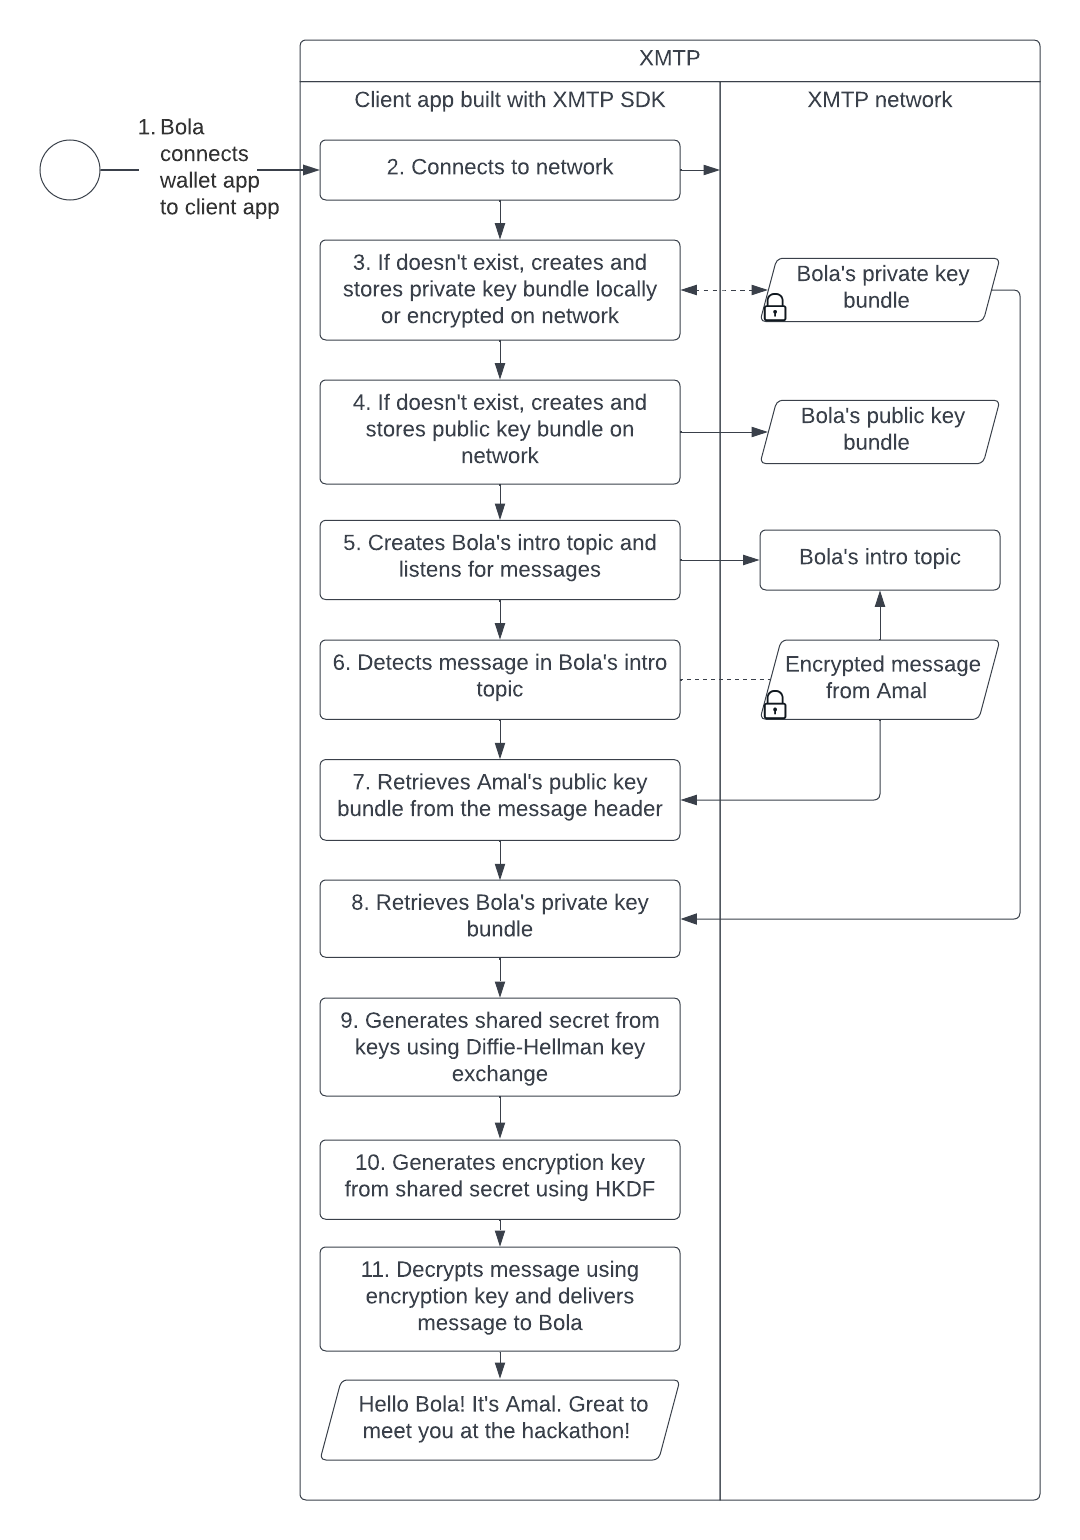
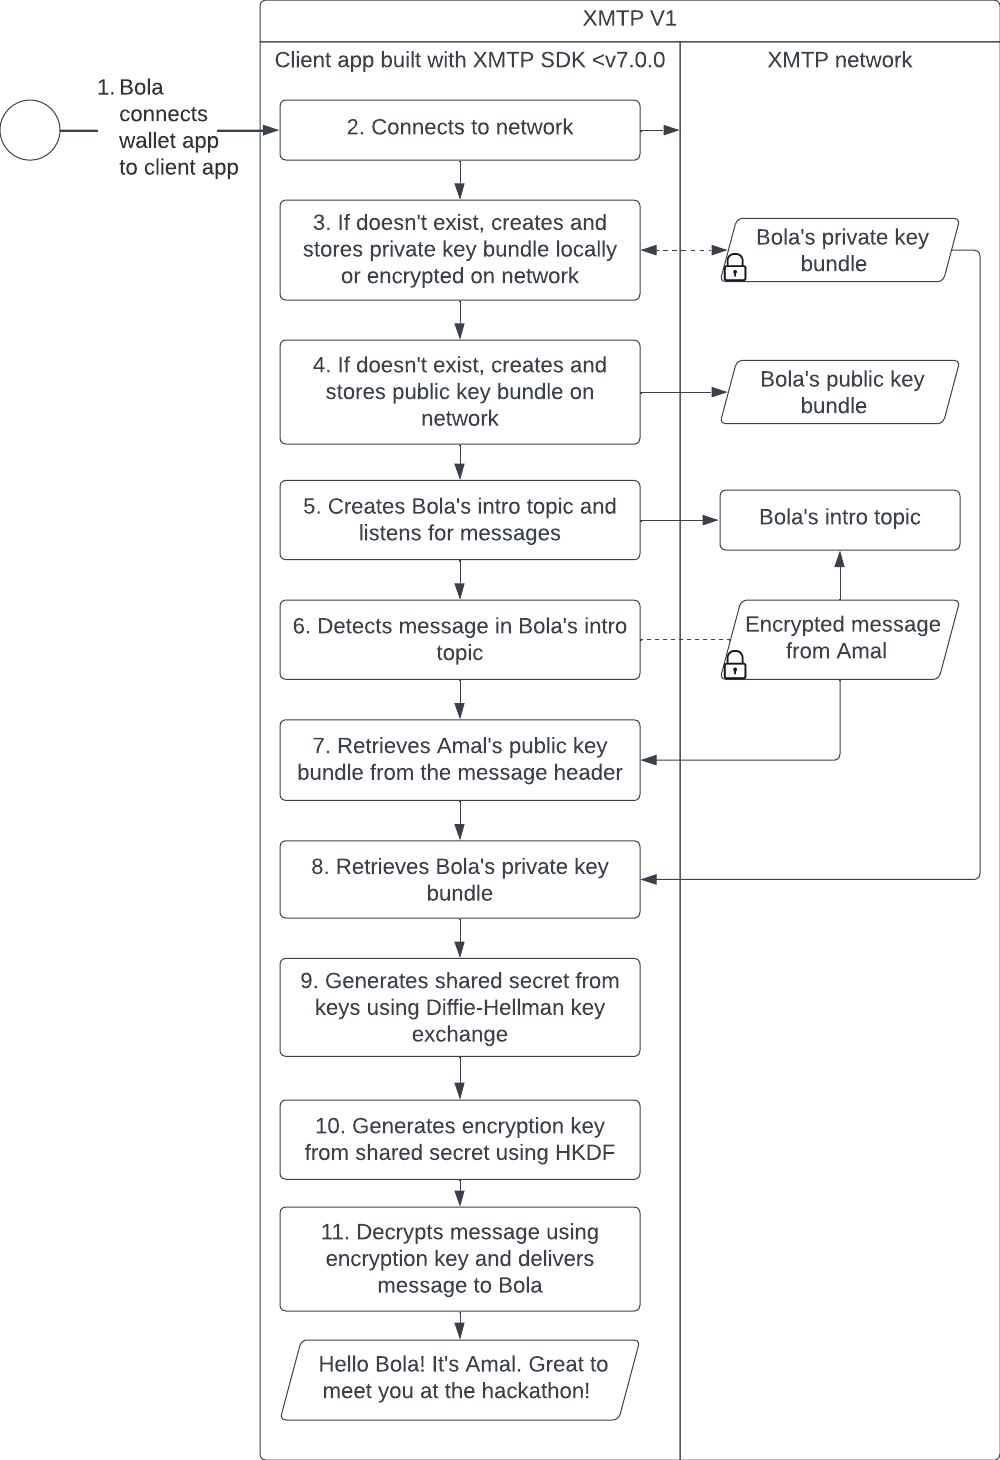
first pass

Changed region(s): [[0.093, 0.0, 1.0, 1.0], [0.031, 0.0925, 0.062, 0.1233]]

diff --git a/docs/dev-concepts/architectural-overview.md b/docs/dev-concepts/architectural-overview.md
@@ -17,6 +17,7 @@ At the most basic level, the architecture of XMTP includes three layers:
 
 ![Diagram showing three layers of the XMTP architecture: network, client, and app.](./img/arch-layers.png) <!--source file: https://www.figma.com/file/1jasKMIn5sAL4855eTwgIm/xmtp-architectural-overview?node-id=407%3A1774-->
 
+
 ## Network layer
 
 The network layer provides the XMTP network which is comprised of nodes (computers) running network client software. The primary responsibilities of the XMTP network and nodes are to:
@@ -27,13 +28,14 @@ The network layer provides the XMTP network which is comprised of nodes (compute
 - Store encrypted private key bundles for XMTP identities
 - Bootstrap newly joined XMTP nodes
 
+
 ### Network topology
 
 Diving a bit deeper into the XMTP network, this diagram illustrates key components of the network topology:
 
 ![Diagram showing five XMTP nodes connected in a peer-to-peer network. Each node contains a bootstrap service and connects to its own data store.](./img/network-topology.png) <!--source file: https://www.figma.com/file/1jasKMIn5sAL4855eTwgIm/xmtp-architectural-overview?node-id=534%3A1663-->
 
-:::note
+:::info
 
 At this time, XMTP Labs runs all nodes in the XMTP network. XMTP Labs aims to publish a phased decentralization roadmap in Fall 2022.
 
@@ -49,32 +51,43 @@ Every XMTP node:
 - Relays messages and key bundles to other nodes
 - Stores and advertises public key bundles for XMTP identities
 - Stores encrypted private key bundles for XMTP identities
-- Stores messages sent by XMTP identities
+- Stores invites and messages sent by XMTP identities
 - Has a private load balancer and connects to a single public load balancer
 
 Here’s a high-level view of how client apps built with XMTP submit and retrieve messages using the XMTP network:
 
 ![Animation showing the flow of a user sending a message to another user, including how the sender's client app encrypts and submits the message to the XMTP network, how an XMTP node relays the message to other nodes, and how the recipient's client app retrieves the message from the network, decrypts it, and delivers it to the recipient.](./img/xmtp-message-flow.gif) <!--source file: https://www.figma.com/file/1jasKMIn5sAL4855eTwgIm/xmtp-architectural-overview?node-id=291%3A2607-->
 
+
 ### Network storage and message relay
 
-The XMTP network uses pub/sub topics to relay and store messages and key bundles within the network. Here's an overview of the topics the network uses:
+The XMTP network uses pub/sub topics to relay and store conversations, messages, invites, and key bundles within the network. This section describes XMTP V1 and V2 topics and flows.
 
+:::info
+
+For a period of time, the XMTP network will support both V1 and V2 topics and flows to give developers time to upgrade their client apps to use XMTP client SDK for JavaScript (xmtp-js) >=v7.0.0, which will provide their apps with V2 functionality. After support for V1 topics and flows is deprecated, client apps that have not upgraded to >=v7.0.0 may be unable to communicate with the XMTP network.
+
+:::
+
+<!--Correct? Is this the min ver needed to use V2. Provide link to release.-->
+
+#### XMTP V1 topics and flow
+
+With XMTP V1, the network uses the following topics:
+
+<!--add more details about specific values in v1 - so we can call out the changes in v2-->
 - Private store topic  
-A developer building an app with XMTP can choose to store their users' private key bundles locally or encrypted on the XMTP network. When required by a client app, the XMTP network uses a private store topic to store a user's private key bundle.  
+  A developer building an app with XMTP can choose to store their users' private key bundles locally or encrypted on the XMTP network. When required by a client app, the XMTP network uses a private store topic to store a user's private key bundle.
 - Contact topic  
-The XMTP network uses a contact topic to store a user’s public key bundle. The network advertises this public key bundle to enable other users to contact the user.  
+  The XMTP network uses a contact topic to store a user’s public key bundle. The network advertises this public key bundle to enable other users to contact the user.
 - Intro topic  
-The XMTP network uses an intro topic to store the first message sent between two participants (blockchain accounts). This enables client apps to know that messages exist in a given direct message topic.
+  The XMTP network uses an intro topic to store the first message sent between two participants (blockchain accounts). This enables client apps to know that messages exist in a given direct message topic.
+- Conversation topic  
+  The XMTP network uses a conversation topic to store all messages sent between two participants. The conversation topic is shared by the two participants.
 
-<!--Per Jazz, currently, the first message in the concept of a conversation is sent to three topics: intro-amal, intro-bola, and dm-amal-bola. The message is copied to the intro topics so that client apps know that messages exist in a given dm topic. This will change in the future such that the intro topic may just include an index, or list, of conversations and no messages.-->
+This diagram illustrates how these XMTP V1 network topics are created and work together to enable a client app to deliver messages to a user:
 
-- Direct message topic  
-The XMTP network uses a direct message topic to store messages sent between two participants. The direct message topic is shared by the two participants.
-
-This diagram illustrates how these XMTP network topics are created and work together to enable a client app to deliver messages to a user:
-
-![Diagram showing a client app interacting with topics in the XMTP network with the goal of delivering messages to a user named Bola.](./img/deliver-a-message.png) <!--source file: https://www.figma.com/file/1jasKMIn5sAL4855eTwgIm/xmtp-architectural-overview?node-id=535%3A1664-->
+![Diagram showing a client app interacting with topics in the XMTP V1 network with the goal of delivering messages to a user named Bola.](./img/deliver-a-message.png) <!--source file: https://www.figma.com/file/1jasKMIn5sAL4855eTwgIm/xmtp-architectural-overview?node-id=535%3A1664-->
 
 In this flow, the client app:
 
@@ -86,7 +99,47 @@ In this flow, the client app:
 
 For more details, see [Message encryption and decryption](#message-encryption-and-decryption).
 
+
+#### XMTP V2 topics and flow
+
+With XMTP V2, the network uses the following topics:
+
+<!--add more details about specific values in v2 - so we can call out the changes from v1-->
+- Private store topic  
+  A developer building an app with XMTP can choose to store their users' private key bundles locally or encrypted on the XMTP network. When required by a client app, the XMTP network uses a private store topic to store a user's private key bundle.  
+- Contact topic  
+  The XMTP network uses a contact topic to store a user’s public key bundle. The network advertises this public key bundle to enable other users to contact the user.
+- Invite topic  
+  XMTP V2 uses an invite topic instead of a V1 intro topic. Instead of storing the first message sent between two participants, the invite topic stores a conversation topic name and key material and no message content. The conversation topic name tells the client app which conversation topic to send messages to. The key material is what the client app uses for message encryption.
+- Conversation topic  
+  The XMTP network uses a conversation topic to store messages sent between two participants. A conversation topic is shared by the two participants. Here are some key differences between conversations topics with XMTP V1 and V2. With XMTP V2:
+  - Two participants can have multiple ongoing conversations. With XMTP V1, all messages between two participants are stored in a single conversation topic.
+  - Conversation topics support `conversationId`s and other metadata. You can use these IDs and metadata to filter and organize conversations, which can be more manageable than filtering individual messages in a single large conversation topic.
+  - The conversation topic name format is `m-DCwPWXQPzoui9RQ eGUD9e9wEz1oOld8E`, for example. The conversation topic name uses a random 32-byte alphanumeric string. With XMTP V1,  the conversation topic name format is `dm-walletaddress1-walletaddress2`, which reveals some identifying information about participants in the conversation.
+
+This diagram illustrates how these XMTP V2 network topics are created and work together to enable a client app to deliver messages to a user:
+
+![Diagram showing a client app interacting with topics in the XMTP V2 network with the goal of delivering messages to a user named Bola.](./img/deliver-a-message-v2.png) <!--source file: https://www.figma.com/file/1jasKMIn5sAL4855eTwgIm/xmtp-architectural-overview?node-id=535%3A1664-->
+
+In this flow, the client app:
+
+<!--do we need to say morea bout invite encryption?-->
+
+1. Retrieves Bola’s private key bundle from the network. If one doesn’t exist, it creates it and stores it encrypted on the network in a private store topic, or locally.
+2. If one doesn't already exist, stores Bola’s public key bundle on the network in a contact topic, so others can message Bola.
+3. Retrieves Bola’s invite topic to get the conversation topic name where the messages are stored, as well as the key material needed for message encryption.
+4. Retrieves the message from the conversation topic.
+5. Uses the shared secret from the key material to create an encryption key to decrypt Amal’s message and present it to Bola.
+
+
+#### How client apps determine whether to use the V1 or V2 message relay flow
+
+Here's a diagram that shows how a client app determines whether to use XMTP V1 or V2 topics and flows.
+
+![Diagram showing a client app interacting with topics in the XMTP V2 network with the goal of delivering messages to a user named Bola.](./img/v1-or-v2-flow.png) <!--source file: https://www.figma.com/file/1jasKMIn5sAL4855eTwgIm/xmtp-architectural-overview?node-id=738%3A2120-->
+
 Next, let’s look at the client layer and how apps connect to the XMTP network and send and receive encrypted messages.
+
 
 ## Client layer
 
@@ -98,26 +151,70 @@ The client layer consists of XMTP user clients embedded in client apps built wit
 - Encode and decode message content types
   To learn more, see [Content types](/docs/dev-concepts/content-types).
 
+
 ### Message encryption and decryption
 
-All XMTP messages are encrypted. A client app encrypts and decrypts messages using the following artifacts:
+All XMTP messages are encrypted. This section describes XMTP V1 and V2 message encryption flows.
+
+
+#### XMTP V1 message encryption
+
+With XMTP V1, a client app encrypts and decrypts messages using the following artifacts:
 
 - Public key bundle (per user)
 - Private key bundle (per user)
 - Shared secret (per sender and recipient pair)
 - Encryption key (per sender and recipient pair)
 
-Here’s a high-level overview of the message encryption and decryption flow:
+Here’s a high-level overview of the message encryption and decryption flow for XMTP V1:
 
 ![Animation showing the flow of a user sending a message to another user, including details of how the sender's client app encrypts and submits the message to the XMTP network, how an XMTP node relays the message to other nodes, and how the recipient's client app retrieves the message from the network, decrypts it, and delivers it to the recipient.](./img/message-encrypt-decrypt.gif) <!--source file: https://www.figma.com/file/1jasKMIn5sAL4855eTwgIm/xmtp-architectural-overview?node-id=324%3A1120-->
 
 The following sequence diagram dives a bit deeper into the flow and illustrates how a client app creates and uses these artifacts to encrypt a message:
 
-![Diagram showing the sequence of steps a client app takes to use a private key, public key, shared secret, and encryption key to encrypt a message before submitting it to the XMTP network.](./img/encrypt-message.png) <!--source file: https://lucid.app/lucidchart/d2985646-969e-4625-82f0-cb38853033c5/edit?viewport_loc=-216%2C-25%2C2184%2C1232%2C0_0&invitationId=inv_2faa4c23-7fdb-40d8-9b78-e9c4557b712d#-->
+![Diagram showing the sequence of steps a client app takes to use a private key, public key, shared secret, and encryption key to encrypt a message before submitting it to the XMTP network.](./img/encrypt-message.png) <!--source file: https://lucid.app/lucidchart/d2985646-969e-4625-82f0-cb38853033c5/edit?view_items=jOX3cckT1jt4&invitationId=inv_2faa4c23-7fdb-40d8-9b78-e9c4557b712d-->
 
 Likewise, this sequence diagram illustrates the message decryption process:
 
-![Diagram showing the sequence of steps a client app takes to retrieve a message from the XMTP network, use a private key, public key, shared secret, and encryption key to decrypt them message, and then deliver the message to a user.](./img/decrypt-message.png) <!--source file: https://lucid.app/lucidchart/eda3bcf7-69e5-4d31-b3cb-577399ae5d8b/edit?invitationId=inv_50b45a44-3475-486e-bc28-80c881f035cf#-->
+![Diagram showing the sequence of steps a client app takes to retrieve a message from the XMTP network, use a private key, public key, shared secret, and encryption key to decrypt the message, and then deliver the message to a user.](./img/decrypt-message.png) <!--source file: https://lucid.app/lucidchart/d2985646-969e-4625-82f0-cb38853033c5/edit?view_items=jOX3cckT1jt4&invitationId=inv_2faa4c23-7fdb-40d8-9b78-e9c4557b712d-->
+
+
+#### XMTP V2 invite encryption
+
+With XMTP V2, a client app encrypts and decrypts invites using the following artifacts:
+
+- Public key bundle (per user)
+- Private key bundle (per user)
+- Shared secret (per sender and recipient pair)
+- Encryption key (per sender and recipient pair)
+
+The following sequence diagram dives a bit deeper into the flow and illustrates how a client app creates and uses these artifacts to encrypt an invite:
+
+![Diagram showing the sequence of steps a client app takes to use a private key, public key, shared secret, and encryption key to encrypt an invite before submitting it to the XMTP network.](./img/invite-encrypt-v2.png) <!--source file: https://lucid.app/lucidchart/e2f80322-b2c9-44c1-8f20-421628e4f9ed/edit?viewport_loc=-389%2C-1224%2C3032%2C1592%2C0_0&invitationId=inv_4013c892-b596-4097-bcfd-a50a233de812-->
+
+Likewise, this sequence diagram illustrates the invite decryption process:
+
+![Diagram showing the sequence of steps a client app takes to retrieve a message from the XMTP network, use a private key, public key, shared secret, and encryption key to decrypt the invite.](./img/invite-decrypt-v2.png) <!--source file: https://lucid.app/lucidchart/e2f80322-b2c9-44c1-8f20-421628e4f9ed/edit?viewport_loc=-389%2C-1224%2C3032%2C1592%2C0_0&invitationId=inv_4013c892-b596-4097-bcfd-a50a233de812-->
+
+
+#### XMTP V2 message encryption
+
+With XMTP V2, a client app encrypts and decrypts messages using the following artifacts:
+
+- Shared secret (per invitees to a conversation)
+- Encryption key (per invitees to a conversation)
+<!--not sure about the second bullet. I know that every invitee to a conversation has the same shared secret - I think this means that each of them will generate the same encryption key through HKDF as well?-->
+
+On a related note, the encrypted message is signed by the sender using their private key. Upon decryption but before presentation to the recipient, the client app uses the sender's public key from the message header to verify the sender of the message.
+
+The following sequence diagram dives a bit deeper into the flow and illustrates how a client app creates and uses these artifacts to encrypt and sign a message:
+
+![Diagram showing the sequence of steps a client app takes to use a shared secret and encryption key to encrypt a message before submitting it to the XMTP network.](./img/invite-encrypt-v2.png) <!--source file: https://lucid.app/lucidchart/9ec2b0e2-df13-4d06-82c7-59068059b8a7/edit?viewport_loc=-1118%2C-613%2C3110%2C1633%2C0_0&invitationId=inv_857afa87-d52e-4236-8a9f-c5818c65df04-->
+
+Likewise, this sequence diagram illustrates the message decryption and sender verification process:
+
+![Diagram showing the sequence of steps a client app takes to retrieve a message from the XMTP network, use a private key, public key, shared secret, and encryption key to decrypt the invite.](./img/invite-decrypt-v2.png) <!--source file: https://lucid.app/lucidchart/9ec2b0e2-df13-4d06-82c7-59068059b8a7/edit?viewport_loc=-1118%2C-613%2C3110%2C1633%2C0_0&invitationId=inv_857afa87-d52e-4236-8a9f-c5818c65df04-->
+
 
 ## App layer
 
